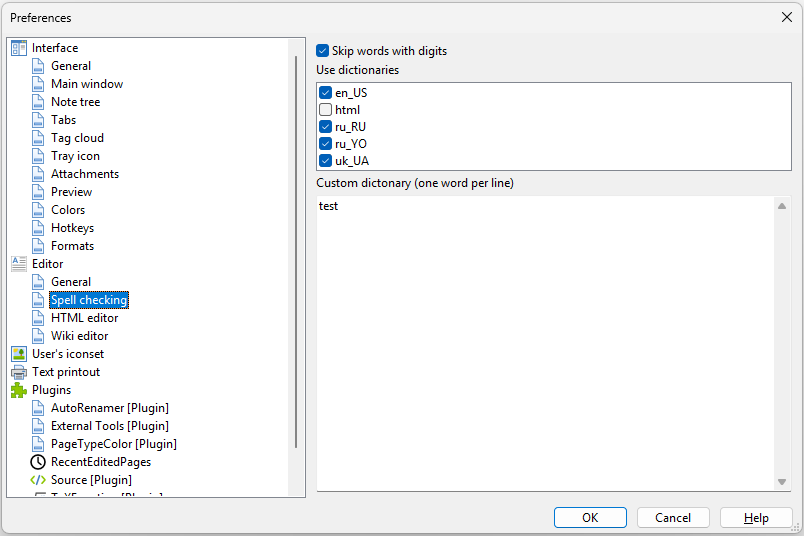
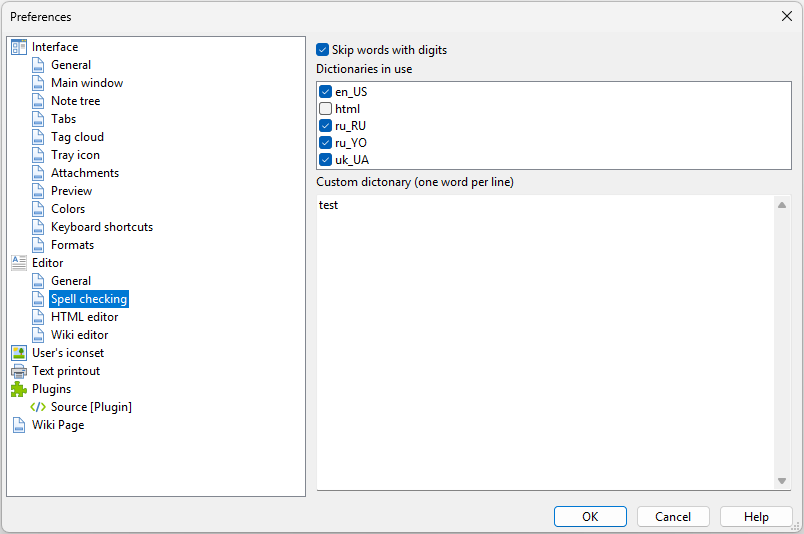
Update help

diff --git a/src/outwiker/data/help/help_ru/Preferences/Editor - Spell checking/__content.html b/src/outwiker/data/help/help_ru/Preferences/Editor - Spell checking/__content.html
@@ -7,25 +7,54 @@
 
 	<style type='text/css'>
 		body, div, p, table {
-			font-size:10pt;
+			font-size:11pt;
 			font-family:Verdana;
 		}
 
[1 lines of base64/hex data omitted]
-		
[1 lines of base64/hex data omitted]
 	</style>
-	
+	<style>span.notice {
+	display: inline-block;
+	color: #333;
+	background-color: #e3f7fc;
+	border-radius: 1px;
+	padding: 0px 2px 0px 2px;
+	margin: 2px;
+	border:1px solid #8ed9f6;
+}
+</style>
+<style>span.info {
+    display: inline-block;
+    color: #333;
+    background-color: #f0f0ff;
+    border-radius: 1px;
+    padding: 0px 2px;
+    margin: 2px;
+    border: 1px solid #b0b0e0;
+}
+</style>
+
 </head>
 
 <body>
-<h2 class="ow-wiki">Редактор - проверка орфографии</h2>
+<h1 class="ow-wiki">Редактор - Проверка орфографии</h1>
 <br/>
 <div align="center"><img class="ow-image" src="__attach/outwiker_opt_editor_spell.png"/></div><br/>
 <br/>
-В данном разделе можно выбрать, какие словари будут использоваться для проверки орфографии при вводе текста. <br/>
+В этом разделе можно изменить настройки, влияющие на процесс проверки орфографии в текстовом редакторе для ввода заметок.<br/>
 <br/>
-Словари, которые использует программа OutWiker для проверки орфографии расположены в папке <i>spell</i> внутри папки программы, а также в папке <i>spell</i> внутри папки настроек, т.е. в Windows 7 / 10 это <i>C:\Users\USERNAME\AppData\Roaming\outwiker\spell</i>, а в Linux - <i>~/.config/outwiker/spell</i> (или в другом месте в зависимости от настроек системы).<br/>
+Если установлен флажок <span class="notice">Пропускать слова с цифрами</span>, то при проверке орфографии будут пропускаться слова наподобие "абырвалг123", "111одидватри", "один111один" и т.п.<br/>
 <br/>
-В этом же разделе можно увидеть и при необходимости отредактировать пользовательский словарь, куда добавляются слова, не вошедшие во встроенные словари.
+OutWiker может использовать сразу несколько словарей для проверки орфографии. Если слово имеется хотя бы в одном из используемых словарей, то оно помечается как верное. В списке <span class="notice">Используемые словари</span> можно выбрать, какие именно словари использовать при проверке во время ввода текста. Количество одновременно используемых словарей может влиять на скорость работы редактора при обработке текста большого объема. <br/>
+<br/>
+Среди словарей имеется специальный словарь <span class="notice">html</span>, который содержит имена тегов для языка HTML.<br/>
+<br/>
+Словари, которые использует программа OutWiker для проверки орфографии расположены в папке <span class="info">spell</span> в <a class="ow-wiki ow-link-page" href="page://config-dirs">директориях настроек</a>. OutWiker использует формат словарей из LibreOffice для движка hunspell. Вы можете найти дополнительные словари, например, по <a class="ow-wiki" href="https://github.com/LibreOffice/dictionaries/">этой ссылке</a> и скопировать их в папку <span class="info">spell</span>.<br/>
+<br/>
+В поле ввода <span class="notice">Пользовательский словарь</span> перечислены слова, которые были добавлены пользователем. В этот список слова попадают, при добавлении их в словарь с помощью соответствующего пункта всплывающего меню, которое появляется при нажатии правой кнопки мыши на слове с ошибкой в редакторе заметок. В этом разделе настроек также можно добавлять и удалять слова, которые при проверке орфографии будут считаться верными. При этом каждое слово должно быть введено на отдельной строке.<br/>
+<hr>
+<b>См. также:</b><ul class="ow-wiki"><li class="ow-wiki"><a class="ow-wiki ow-link-page" href="page://config-dirs">Директории настроек</a></li><li class="ow-wiki"><a class="ow-wiki ow-link-page" href="page://settings_editor_general">Редактор - Общие</a></li><li class="ow-wiki"><a class="ow-wiki ow-link-page" href="page://settings_editor_html_editor">Редактор - HTML-редактор</a></li><li class="ow-wiki"><a class="ow-wiki ow-link-page" href="page://settings_editor_wiki_editor">Редактор - Викиредактор</a></li>
+</ul>
 </body>
 </html>

diff --git a/src/outwiker/data/help/help_en/Application settings/Editor - Spell checking/__content.html b/src/outwiker/data/help/help_en/Application settings/Editor - Spell checking/__content.html
@@ -7,25 +7,54 @@
 
 	<style type='text/css'>
 		body, div, p, table {
-			font-size:10pt;
+			font-size:11pt;
 			font-family:Verdana;
 		}
 
[1 lines of base64/hex data omitted]
-		
[1 lines of base64/hex data omitted]
 	</style>
-	
+	<style>span.notice {
+	display: inline-block;
+	color: #333;
+	background-color: #e3f7fc;
+	border-radius: 1px;
+	padding: 0px 2px 0px 2px;
+	margin: 2px;
+	border:1px solid #8ed9f6;
+}
+</style>
+<style>span.info {
+    display: inline-block;
+    color: #333;
+    background-color: #f0f0ff;
+    border-radius: 1px;
+    padding: 0px 2px;
+    margin: 2px;
+    border: 1px solid #b0b0e0;
+}
+</style>
+
 </head>
 
 <body>
-<h2 class="ow-wiki">Editor - Spell checking</h2>
+<h1 class="ow-wiki">Editor - Spell checking</h1>
 <br/>
 <div align="center"><img class="ow-image" src="__attach/outwiker_opt_editor_spell.png"/></div><br/>
 <br/>
-In the "Spell checking" section one can select dictionaries for spell checking.<br/>
+This section allows you to configure the settings for the spell checking process within the note editor.<br/>
 <br/>
-The spell checking dictionaries are located in the <i>spell</i> subdirectory of the program's directory as well as the <i>spell</i> directory of the settings directory (in case of Windows 7 and above, it is <i>C:\Users\USERNAME\AppData\Roaming\outwiker\spell</i>; in case of Linux, it is <i>~/.config/outwiker/spell</i> by default).<br/>
+If the <span class="notice">Skip words with digits</span> checkbox is enabled, the spell checker will ignore words containing digits, such as "word123", "111word", "one111one", etc.<br/>
 <br/>
-It is possible to set custom dictionary which contains words added by user.
+OutWiker can use multiple dictionaries simultaneously for spell checking. A word is considered correct if it is found in at least one of the active dictionaries. In the <span class="notice">Dictionaries in use</span> list, you can select which dictionaries to use for real-time spell checking. Note that using many dictionaries at once may affect editor performance when handling large amounts of text.<br/>
+<br/>
+Among the available dictionaries, there is a special <span class="notice">html</span> dictionary that contains HTML tag names.<br/>
+<br/>
+The dictionaries used by OutWiker are located in the <span class="info">spell</span> folder within the <a class="ow-wiki ow-link-page" href="page://config-dirs">configuration directories</a>. OutWiker uses the LibreOffice dictionary format for the hunspell engine. You can find additional dictionaries at <a class="ow-wiki" href="https://github.com/LibreOffice/dictionaries/">this link</a> and copy them into the <span class="info">spell</span> folder.<br/>
+<br/>
+The <span class="notice">User dictionary</span> field lists words that have been added by the user. Words are added to this list via the "Add to dictionary" context menu item when right-clicking a misspelled word in the editor. In this settings section, you can also manually add or remove words to be treated as correct. Each word must be entered on a new line.<br/>
+<hr>
+<b>See also:</b><ul class="ow-wiki"><li class="ow-wiki"><a class="ow-wiki ow-link-page" href="page://config-dirs">Config directories</a></li><li class="ow-wiki"><a class="ow-wiki ow-link-page" href="page://settings_editor_general">Editor - General</a></li><li class="ow-wiki"><a class="ow-wiki ow-link-page" href="page://settings_editor_html_editor">Editor - HTML editor</a></li><li class="ow-wiki"><a class="ow-wiki ow-link-page" href="page://settings_editor_wiki_editor">Editor - Wiki editor</a></li>
+</ul>
 </body>
 </html>

diff --git a/src/outwiker/data/help/help_en/Application settings/Editor - Wiki editor/__content.html b/src/outwiker/data/help/help_en/Application settings/Editor - Wiki editor/__content.html
@@ -7,7 +7,7 @@
 
 	<style type='text/css'>
 		body, div, p, table {
-			font-size:10pt;
+			font-size:11pt;
 			font-family:Verdana;
 		}
 
